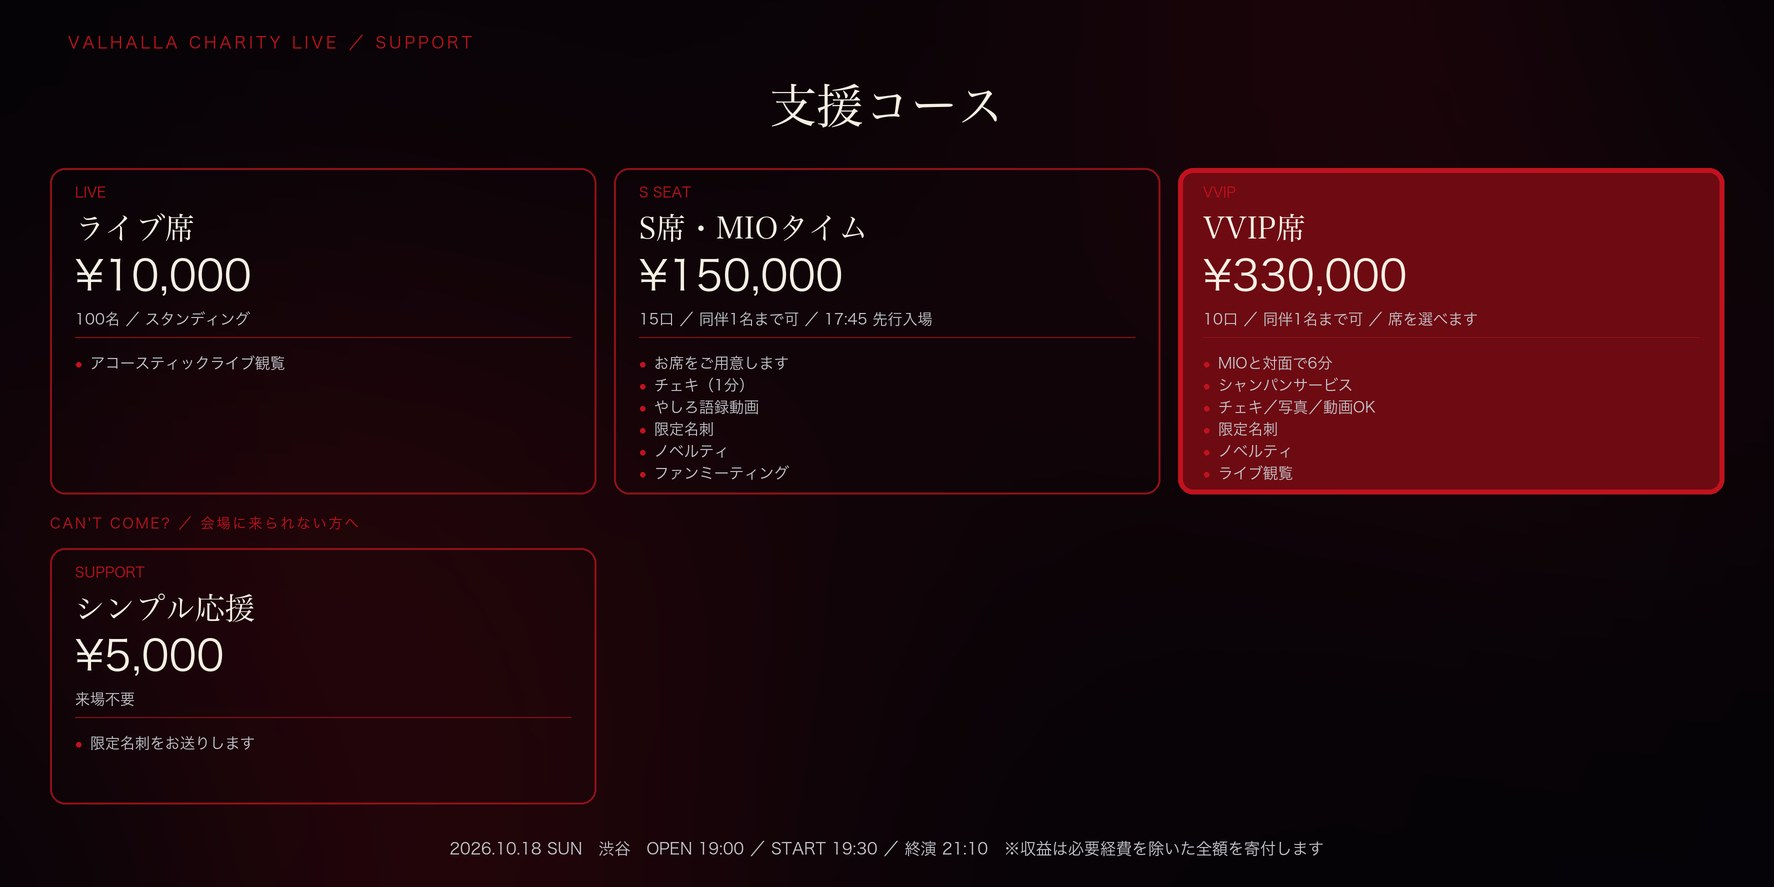
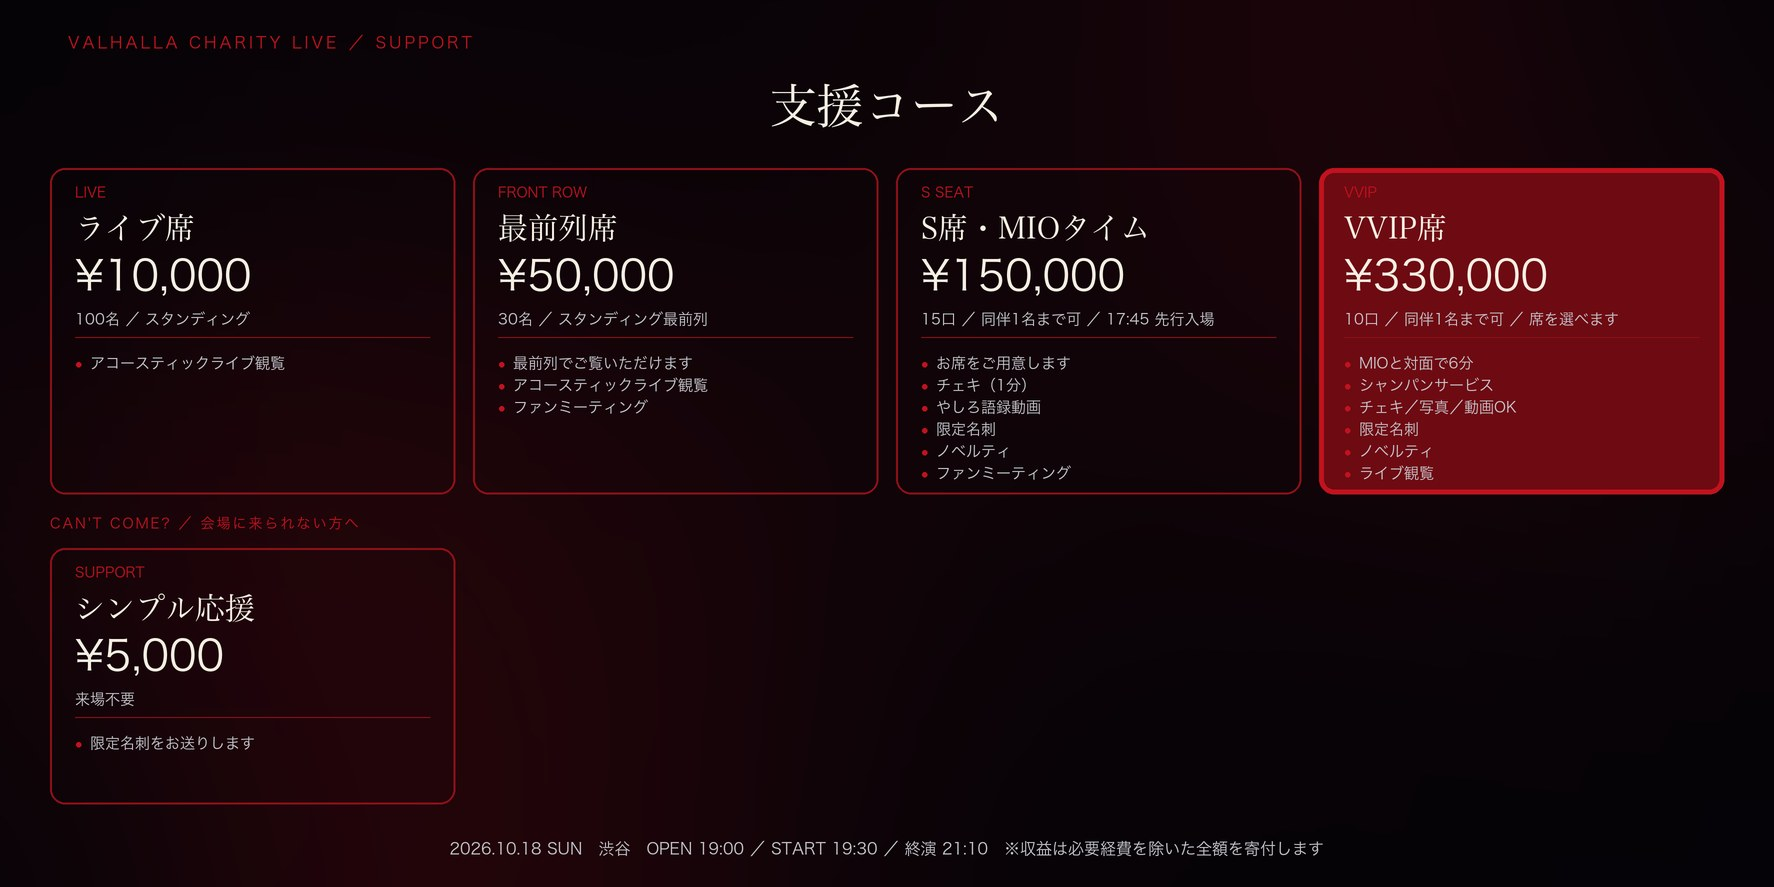
charity: the 50,000 tier is the standing front row
It was never a seated block, so it sits alongside the 100 standing
ライブ席 rather than folding into S席: 30 people at the front, 100 behind,
130 standing in all, with the 50 seats above that. The room reaches 180,
not 150, and sold out that is 805万.

The 2026-09-07 seat reconciliation is gone -- the plan section that came
back on the 8th supersedes it, and leaving both meant two different
answers to the same question.

diff --git a/charity.html b/charity.html
@@ -555,6 +555,18 @@
     </div>
 
     <div class="r">
+      <div class="rn">最前列席</div>
+      <div class="rp">¥50,000</div>
+      <div class="lim">30名 ／ スタンディング最前列</div>
+      <ul>
+        <li>最前列でご覧いただけます（スタンディング）</li>
+        <li>アコースティックライブ観覧</li>
+        <li>ファンミーティング（2026年11月・ユグドラシル本店／営業時間外の日中に会場として使用）<span class="tbd">【日程調整中】</span></li>
+      </ul>
+      <a class="pay-btn" data-pay="front">このコースで支援する</a>
+    </div>
+
+    <div class="r">
       <div class="rn">S席・MIOタイム</div>
       <div class="rp">¥150,000</div>
       <div class="lim">15口 ／ 同伴1名まで可 ／ 17:45 先行入場</div>
@@ -697,6 +709,7 @@
   // ---- CAMPFIRE / 決済リンク：各コースのURLをここに貼るだけ
   const PAYLINK = {
     live: "",   // ライブ席
+    front: "",  // 最前列席
     simple: "", // シンプル応援
     mio:  "",   // MIOタイム
     vvip: ""    // VVIP席

diff --git a/assets/charity/create_returns_banner.py b/assets/charity/create_returns_banner.py
@@ -176,6 +176,9 @@ def add_cards(base: Image.Image) -> None:
     upper = (
         ("LIVE", "ライブ席", "¥10,000", "100名 ／ スタンディング",
          ("アコースティックライブ観覧",)),
+        ("FRONT ROW", "最前列席", "¥50,000", "30名 ／ スタンディング最前列",
+         ("最前列でご覧いただけます", "アコースティックライブ観覧",
+          "ファンミーティング")),
         ("S SEAT", "S席・MIOタイム", "¥150,000", "15口 ／ 同伴1名まで可 ／ 17:45 先行入場",
          ("お席をご用意します", "チェキ（1分）", "やしろ語録動画", "限定名刺",
           "ノベルティ", "ファンミーティング")),
